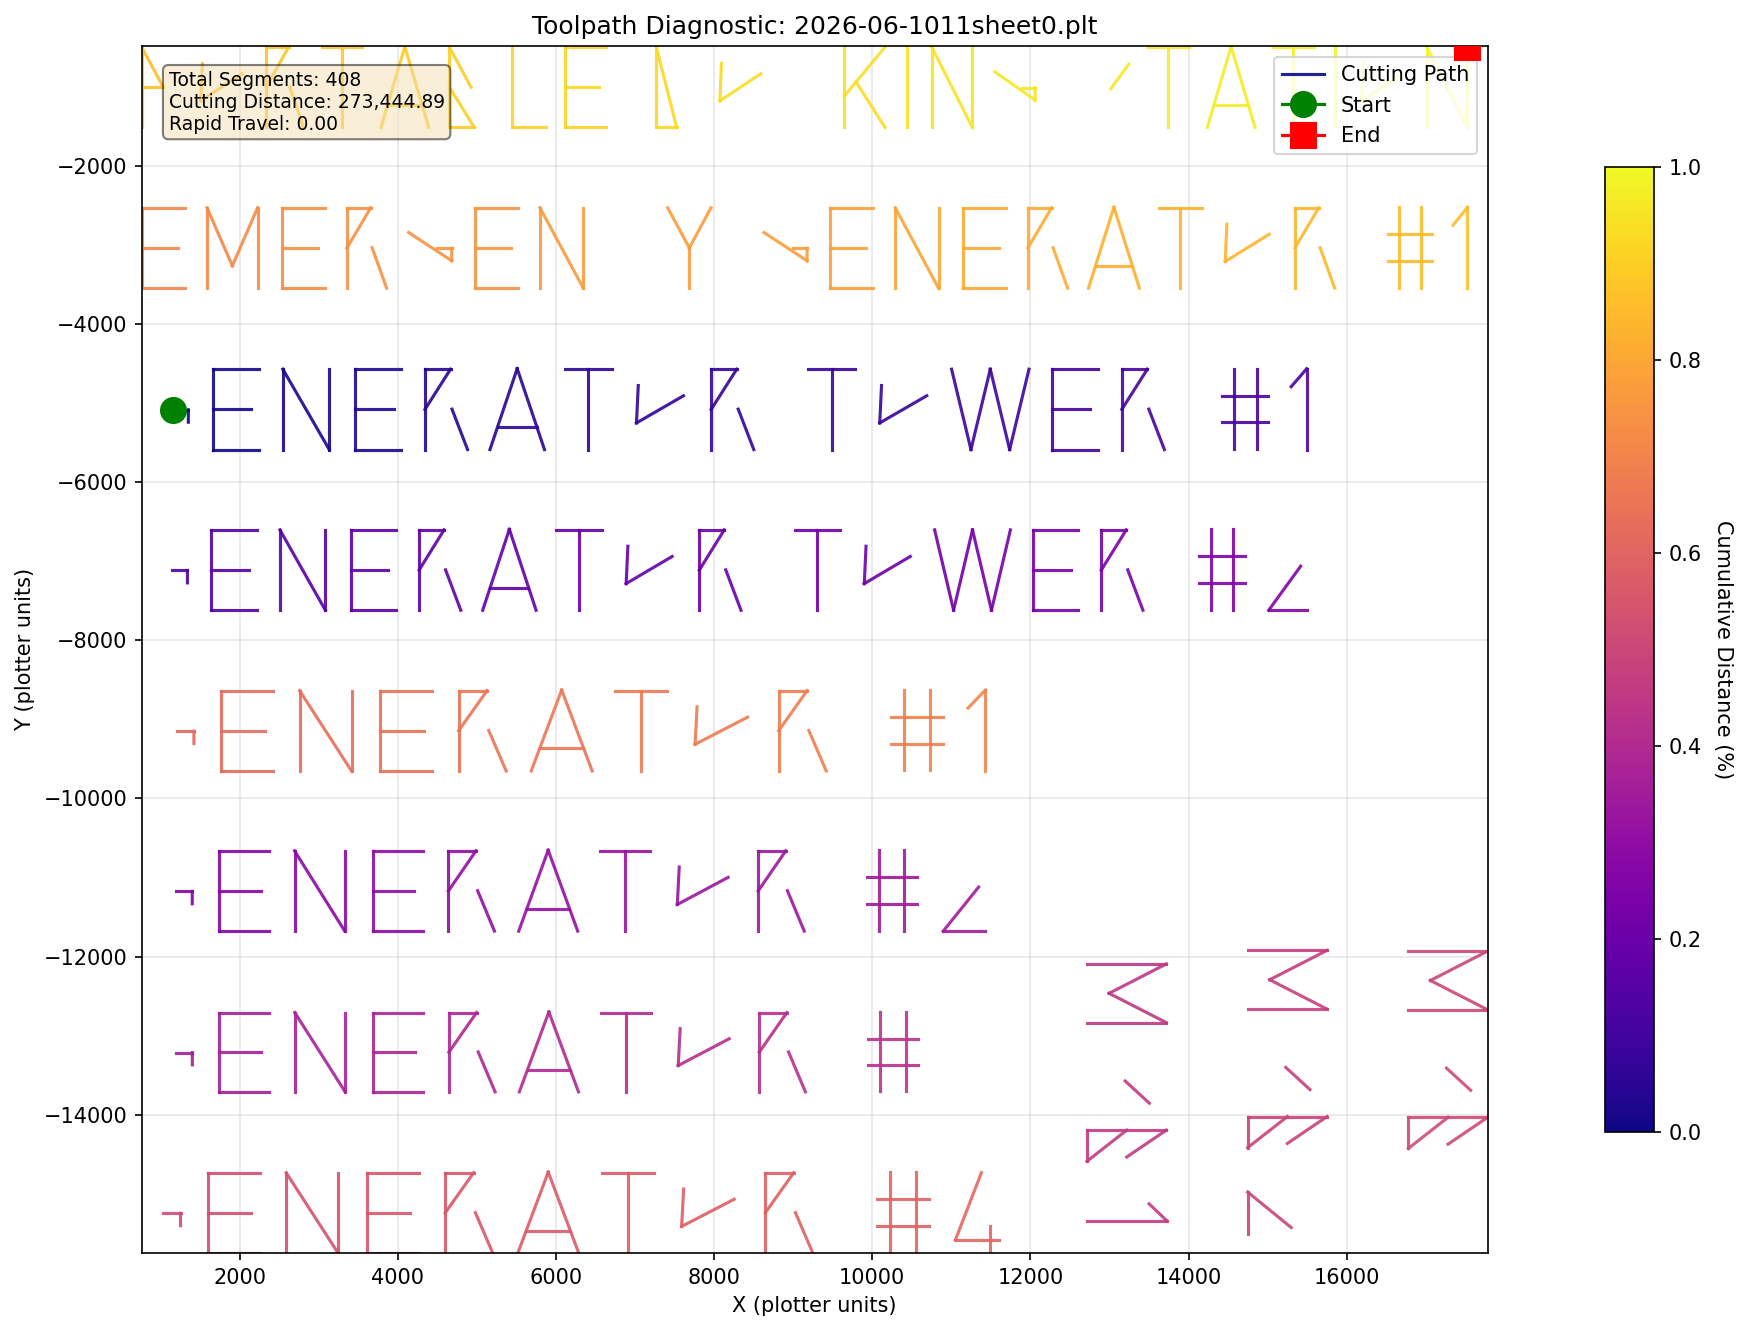
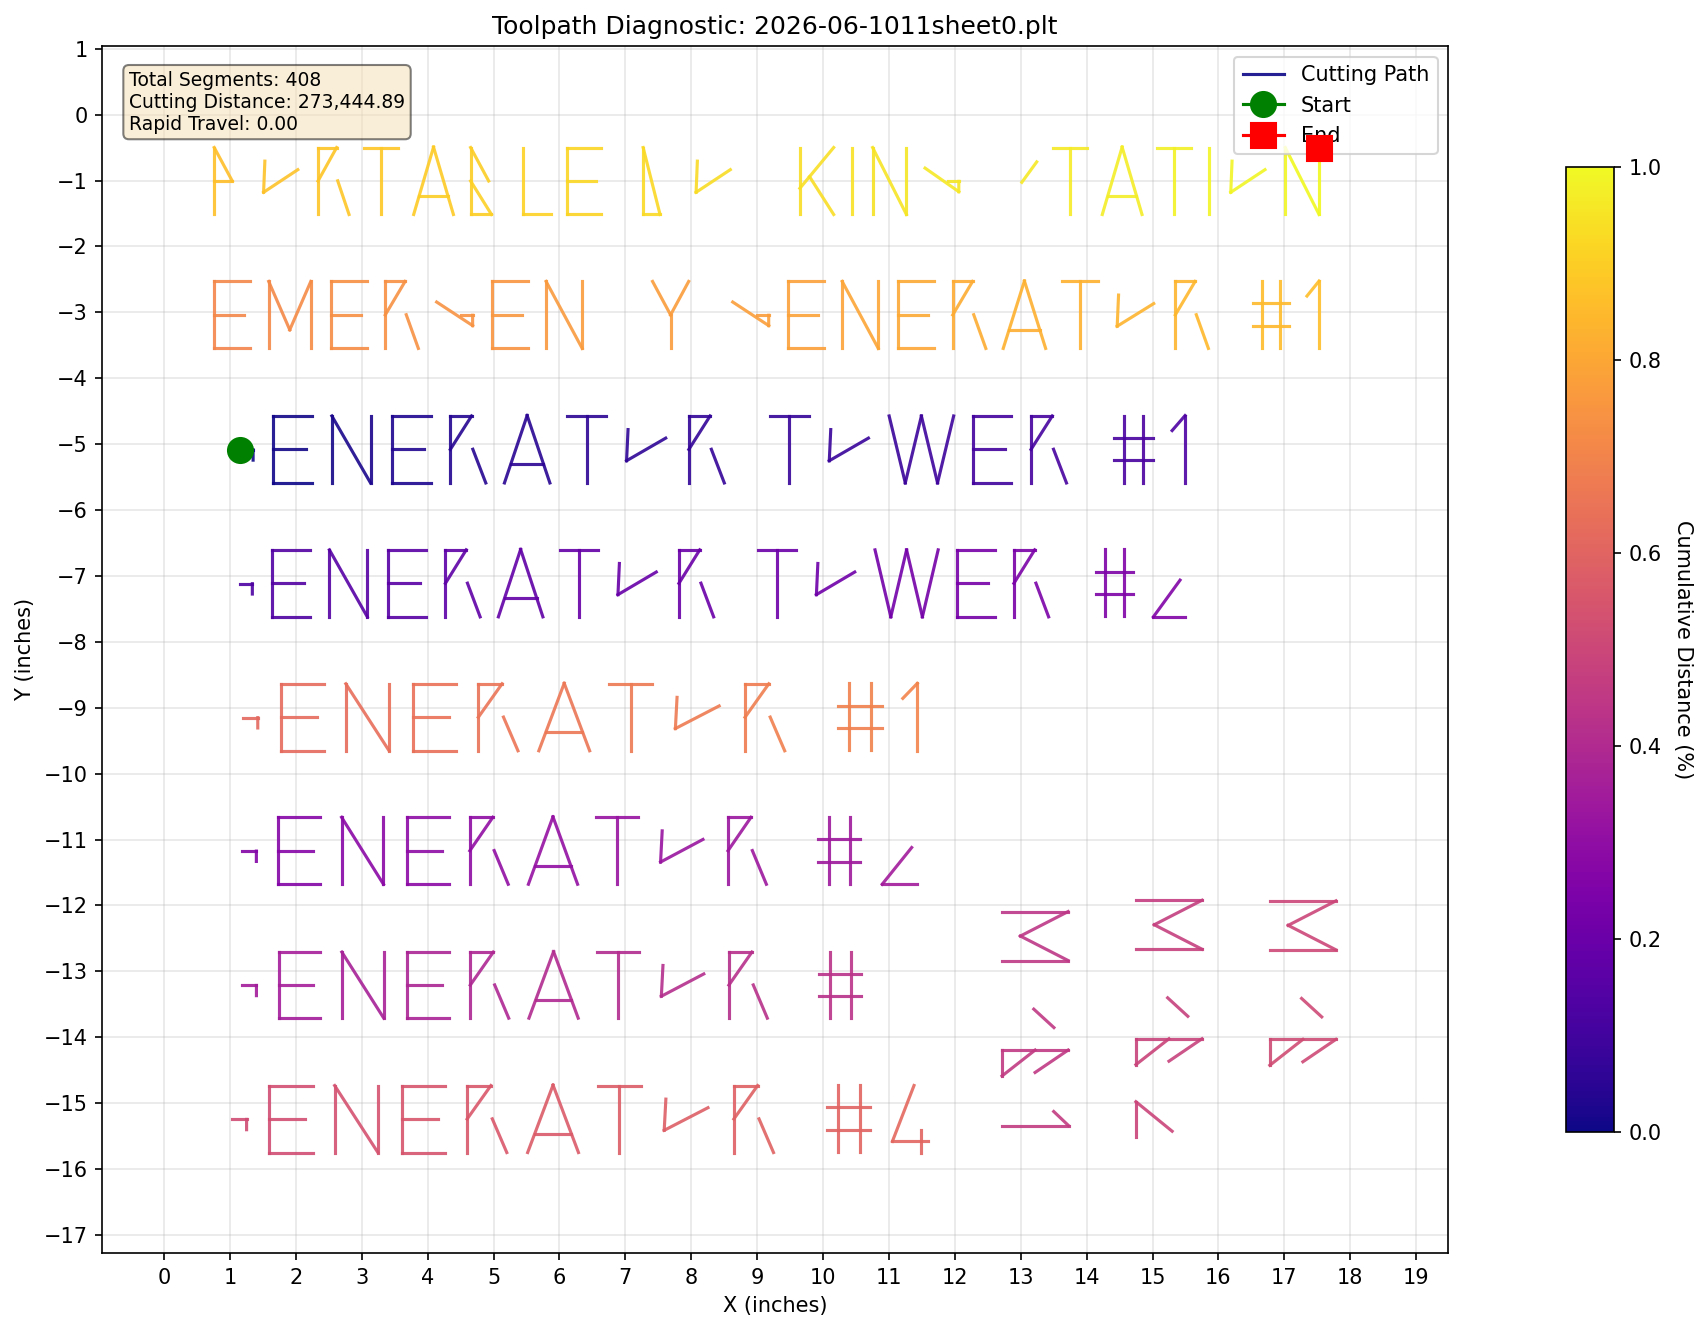
improve plotting

diff --git a/plt_optimizer/diagnostics/plotter.py b/plt_optimizer/diagnostics/plotter.py
@@ -10,6 +10,7 @@ from collections.abc import Sequence
 from pathlib import Path
 
 import matplotlib.pyplot as plt
+from matplotlib.ticker import MultipleLocator
 
 from plt_optimizer.core.models import (
     Coordinate,
@@ -18,6 +19,10 @@ from plt_optimizer.core.models import (
     StrokeSegment,
 )
 from plt_optimizer.utils.geometry import calculate_cumulative_distances
+
+
+# Plotter units are 1/1000ths of an inch; divide by 1000 for inches
+PLT_UNITS_TO_INCHES = 1 / 1000
 
 
 def _flip_y(y: float) -> float:
@@ -120,37 +125,34 @@ def plot_plt_document(
             else:
                 rapid_lines.append(line_coords)
 
-        # Calculate axis limits from all segments
+        # Calculate axis limits from all segments with 10% padding (in inches)
         if all_segments:
-            all_x = [seg.start.x for seg in all_segments] + [seg.end.x for seg in all_segments]
-            all_y = [_flip_y(seg.start.y) for seg in all_segments] + [
-                _flip_y(seg.end.y) for seg in all_segments
+            all_x = [seg.start.x * PLT_UNITS_TO_INCHES for seg in all_segments] + [
+                seg.end.x * PLT_UNITS_TO_INCHES for seg in all_segments
+            ]
+            all_y = [_flip_y(seg.start.y) * PLT_UNITS_TO_INCHES for seg in all_segments] + [
+                _flip_y(seg.end.y) * PLT_UNITS_TO_INCHES for seg in all_segments
             ]
             x_min, x_max = min(all_x), max(all_x)
             y_min, y_max = min(all_y), max(all_y)
-            ax.set_xlim(x_min, x_max)
-            if y_min == y_max:
-                y_range = abs(x_max - x_min) * 0.05 if x_max != x_min else 1.0
-                y_min -= y_range
-                y_max += y_range
-            ax.set_ylim(y_min, y_max)
 
-        # Debug: print some segment coordinates
-        if len(all_segments) > 1:
-            print(
-                f"First segment: start=({all_segments[0].start.x}, {_flip_y(all_segments[0].start.y)}), end=({all_segments[0].end.x}, {all_segments[1].end.y})"
-            )
-            print(
-                f"Last segment: start=({all_segments[-2].start.x}, {_flip_y(all_segments[-2].start.y)}), end=({all_segments[-1].end.x}, {all_segments[-1].end.y})"
-            )
+            # Add 10% padding (5% on each side)
+            x_range = x_max - x_min if x_max != x_min else abs(x_max) * 0.1 if x_max != 0 else 1.0
+            y_range = y_max - y_min if y_max != y_min else abs(y_max) * 0.1 if y_max != 0 else 1.0
+            padding_x = x_range * 0.1
+            padding_y = y_range * 0.1
+
+            ax.set_xlim(x_min - padding_x, x_max + padding_x)
+            ax.set_ylim(y_min - padding_y, y_max + padding_y)
 
         # Plot each segment individually for better visibility and axis handling
         # First, plot all rapid moves (dotted gray lines)
         for i, seg in enumerate(all_segments):
             if not seg.is_cutting:  # Rapid travel
                 ax.plot(
-                    [seg.start.x, seg.end.x],
-                    [_flip_y(seg.start.y), _flip_y(seg.end.y)],
+                    [seg.start.x * PLT_UNITS_TO_INCHES, seg.end.x * PLT_UNITS_TO_INCHES],
+                    [_flip_y(seg.start.y) * PLT_UNITS_TO_INCHES,
+                     _flip_y(seg.end.y) * PLT_UNITS_TO_INCHES],
                     color="gray",
                     linewidth=0.5,
                     linestyle="dotted",
@@ -165,8 +167,9 @@ def plot_plt_document(
                 cmap = plt.cm.get_cmap("plasma")
                 color = cmap(color_val)
                 ax.plot(
-                    [seg.start.x, seg.end.x],
-                    [_flip_y(seg.start.y), _flip_y(seg.end.y)],
+                    [seg.start.x * PLT_UNITS_TO_INCHES, seg.end.x * PLT_UNITS_TO_INCHES],
+                    [_flip_y(seg.start.y) * PLT_UNITS_TO_INCHES,
+                     _flip_y(seg.end.y) * PLT_UNITS_TO_INCHES],
                     color=color,
                     linewidth=1.5,
                     alpha=0.9,
@@ -184,8 +187,8 @@ def plot_plt_document(
         last_seg = all_segments[-1]
 
         ax.plot(
-            first_seg.start.x,
-            _flip_y(first_seg.start.y),
+            first_seg.start.x * PLT_UNITS_TO_INCHES,
+            _flip_y(first_seg.start.y) * PLT_UNITS_TO_INCHES,
             marker="o",
             markersize=12,
             color="green",
@@ -193,8 +196,8 @@ def plot_plt_document(
             label="Start",
         )
         ax.plot(
-            last_seg.end.x,
-            _flip_y(last_seg.end.y),
+            last_seg.end.x * PLT_UNITS_TO_INCHES,
+            _flip_y(last_seg.end.y) * PLT_UNITS_TO_INCHES,
             marker="s",
             markersize=12,
             color="red",
@@ -203,9 +206,11 @@ def plot_plt_document(
         )
 
         # Configure axes
-        ax.set_xlabel("X (plotter units)")
-        ax.set_ylabel("Y (plotter units)")
+        ax.set_xlabel("X (inches)")
+        ax.set_ylabel("Y (inches)")
         ax.set_title(title)
+        ax.xaxis.set_major_locator(MultipleLocator(1))
+        ax.yaxis.set_major_locator(MultipleLocator(1))
         ax.legend(loc="upper right")
         ax.grid(True, alpha=0.3)
 
@@ -372,9 +377,11 @@ def create_path_diagram(
     ax.plot(xs[0], ys[0], "go", markersize=12, zorder=10, label="Start")
     ax.plot(xs[-1], ys[-1], "rs", markersize=12, zorder=10, label="End")
 
-    ax.set_xlabel("X (plotter units)")
-    ax.set_ylabel("Y (plotter units)")
+    ax.set_xlabel("X (inches)")
+    ax.set_ylabel("Y (inches)")
     ax.set_title(title)
+    ax.xaxis.set_major_locator(MultipleLocator(1))
+    ax.yaxis.set_major_locator(MultipleLocator(1))
     ax.legend()
     ax.grid(True, alpha=0.3)
     ax.set_aspect("equal", adjustable="box")
